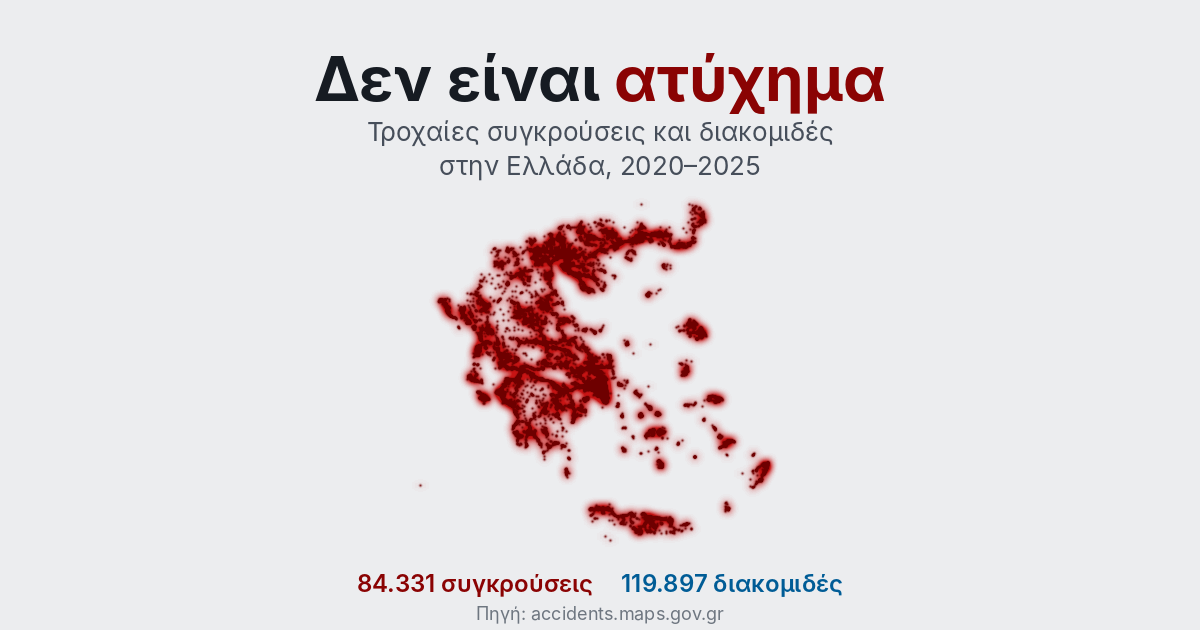
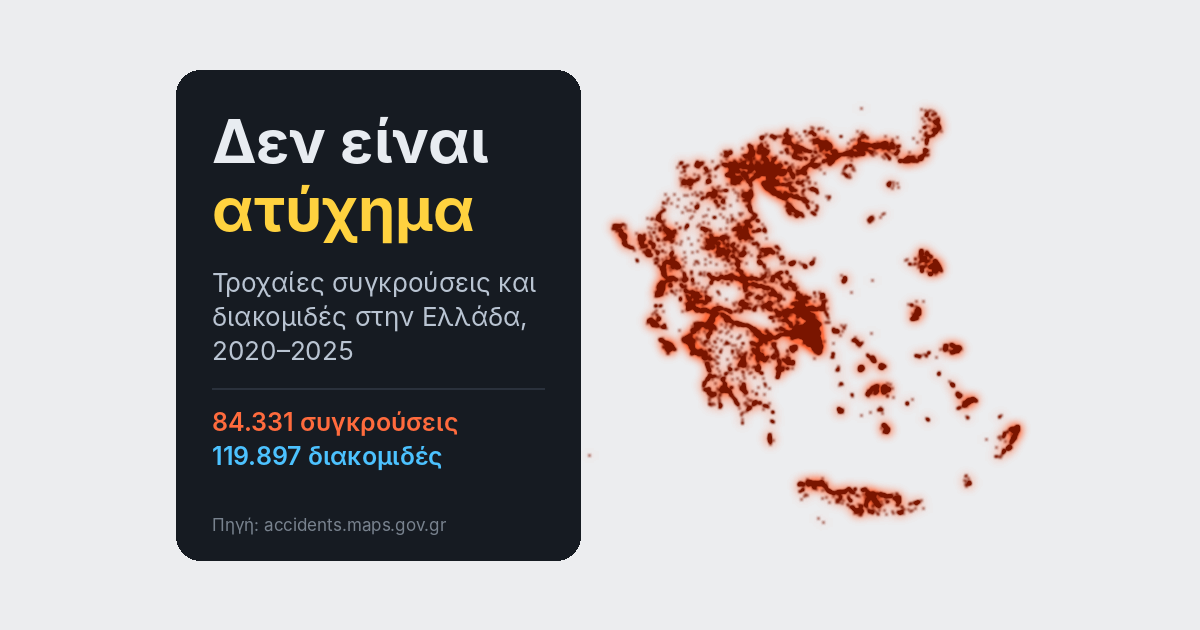
Share card: return to the first design, panel and map pulled together
Restores the original look (dark text panel, yellow «ατύχημα», orange
and dark-red map on light grey) with the panel and map moved closer and
centred, so previews cropped at the sides keep most of both. Site icons
are back to the original map colours.

Claude-Session: https://claude.ai/code/session_019fEwLyPi1Es2eciPmXZeF8

diff --git a/scripts/og.py b/scripts/og.py
@@ -22,35 +22,31 @@ def draw_map(img, box, blur=5, gain=9, glow_c=(255, 107, 61), core_c=(122, 21, 0
     img.paste(Image.new('RGB', (W, H), glow_c), (0, 0), glow)
     img.paste(Image.new('RGB', (W, H), core_c), (0, 0), core)
 
-# share card 1200x630; everything sits in the central 600px so side-cropped previews keep it
+# share card 1200x630: dark text panel beside the map, both pulled into the middle
 W, H = 1200, 630
-DARK = (22, 27, 34)
 img = Image.new('RGB', (W, H), BG)
-draw_map(img, (425, 196, 775, 548), blur=4, gain=10, glow_c=(200, 20, 20), core_c=(110, 0, 0))   # blood red
+draw_map(img, (596, 40, 1026, 590))
 dr = ImageDraw.Draw(img)
-title = ImageFont.truetype(F + 'Inter-Bold.otf', 62)
+L, T, R, B = 176, 70, 580, 560
+dr.rounded_rectangle((L, T, R, B), radius=24, fill=(22, 27, 34))
+title = ImageFont.truetype(F + 'Inter-Bold.otf', 60)
 sub = ImageFont.truetype(F + 'Inter-Regular.otf', 26)
-stat = ImageFont.truetype(F + 'Inter-SemiBold.otf', 24)
-small = ImageFont.truetype(F + 'Inter-Regular.otf', 18)
-cx = W // 2
-tw1 = dr.textlength('Δεν είναι ', font=title); tw2 = dr.textlength('ατύχημα', font=title)
-x = cx - (tw1 + tw2) / 2
-dr.text((x, 40), 'Δεν είναι ', font=title, fill=(22, 27, 34))
-dr.text((x + tw1, 40), 'ατύχημα', font=title, fill=(138, 3, 3))
-dr.text((cx, 120), 'Τροχαίες συγκρούσεις και διακομιδές', font=sub, fill=(70, 78, 90), anchor='mt')
-dr.text((cx, 154), 'στην Ελλάδα, 2020–2025', font=sub, fill=(70, 78, 90), anchor='mt')
-a, b = '84.331 συγκρούσεις', '119.897 διακομιδές'
-gap = 28
-wa, wb = dr.textlength(a, font=stat), dr.textlength(b, font=stat)
-x = cx - (wa + gap + wb) / 2
-dr.text((x, 568), a, font=stat, fill=(138, 3, 3))
-dr.text((x + wa + gap, 568), b, font=stat, fill=(0, 92, 150))
-dr.text((cx, 606), 'Πηγή: accidents.maps.gov.gr', font=small, fill=(110, 118, 128), anchor='mt')
+stat = ImageFont.truetype(F + 'Inter-SemiBold.otf', 25)
+small = ImageFont.truetype(F + 'Inter-Regular.otf', 17)
+x = L + 36
+dr.text((x, T + 34), 'Δεν είναι', font=title, fill=(232, 236, 241))
+dr.text((x, T + 102), 'ατύχημα', font=title, fill=(255, 210, 63))
+for i, line in enumerate(['Τροχαίες συγκρούσεις και', 'διακομιδές στην Ελλάδα,', '2020–2025']):
+    dr.text((x, T + 196 + 34 * i), line, font=sub, fill=(185, 196, 210))
+dr.line((x, T + 318, R - 36, T + 318), fill=(42, 49, 60), width=2)
+dr.text((x, T + 336), '84.331 συγκρούσεις', font=stat, fill=(255, 107, 61))
+dr.text((x, T + 370), '119.897 διακομιδές', font=stat, fill=(76, 194, 255))
+dr.text((x, B - 46), 'Πηγή: accidents.maps.gov.gr', font=small, fill=(120, 130, 142))
 img.save(f'{repo}/og.png', optimize=True)
 
 # square icon: map only
 ic = Image.new('RGB', (512, 512), BG)
-draw_map(ic, (28, 28, 484, 484), blur=4, gain=10, glow_c=(200, 20, 20), core_c=(110, 0, 0))
+draw_map(ic, (28, 28, 484, 484), blur=4, gain=10)
 ic.save(f'{repo}/icon-512.png', optimize=True)
 ic.resize((180, 180), Image.LANCZOS).save(f'{repo}/apple-touch-icon.png', optimize=True)
 ic.resize((32, 32), Image.LANCZOS).save(f'{repo}/favicon.png', optimize=True)
